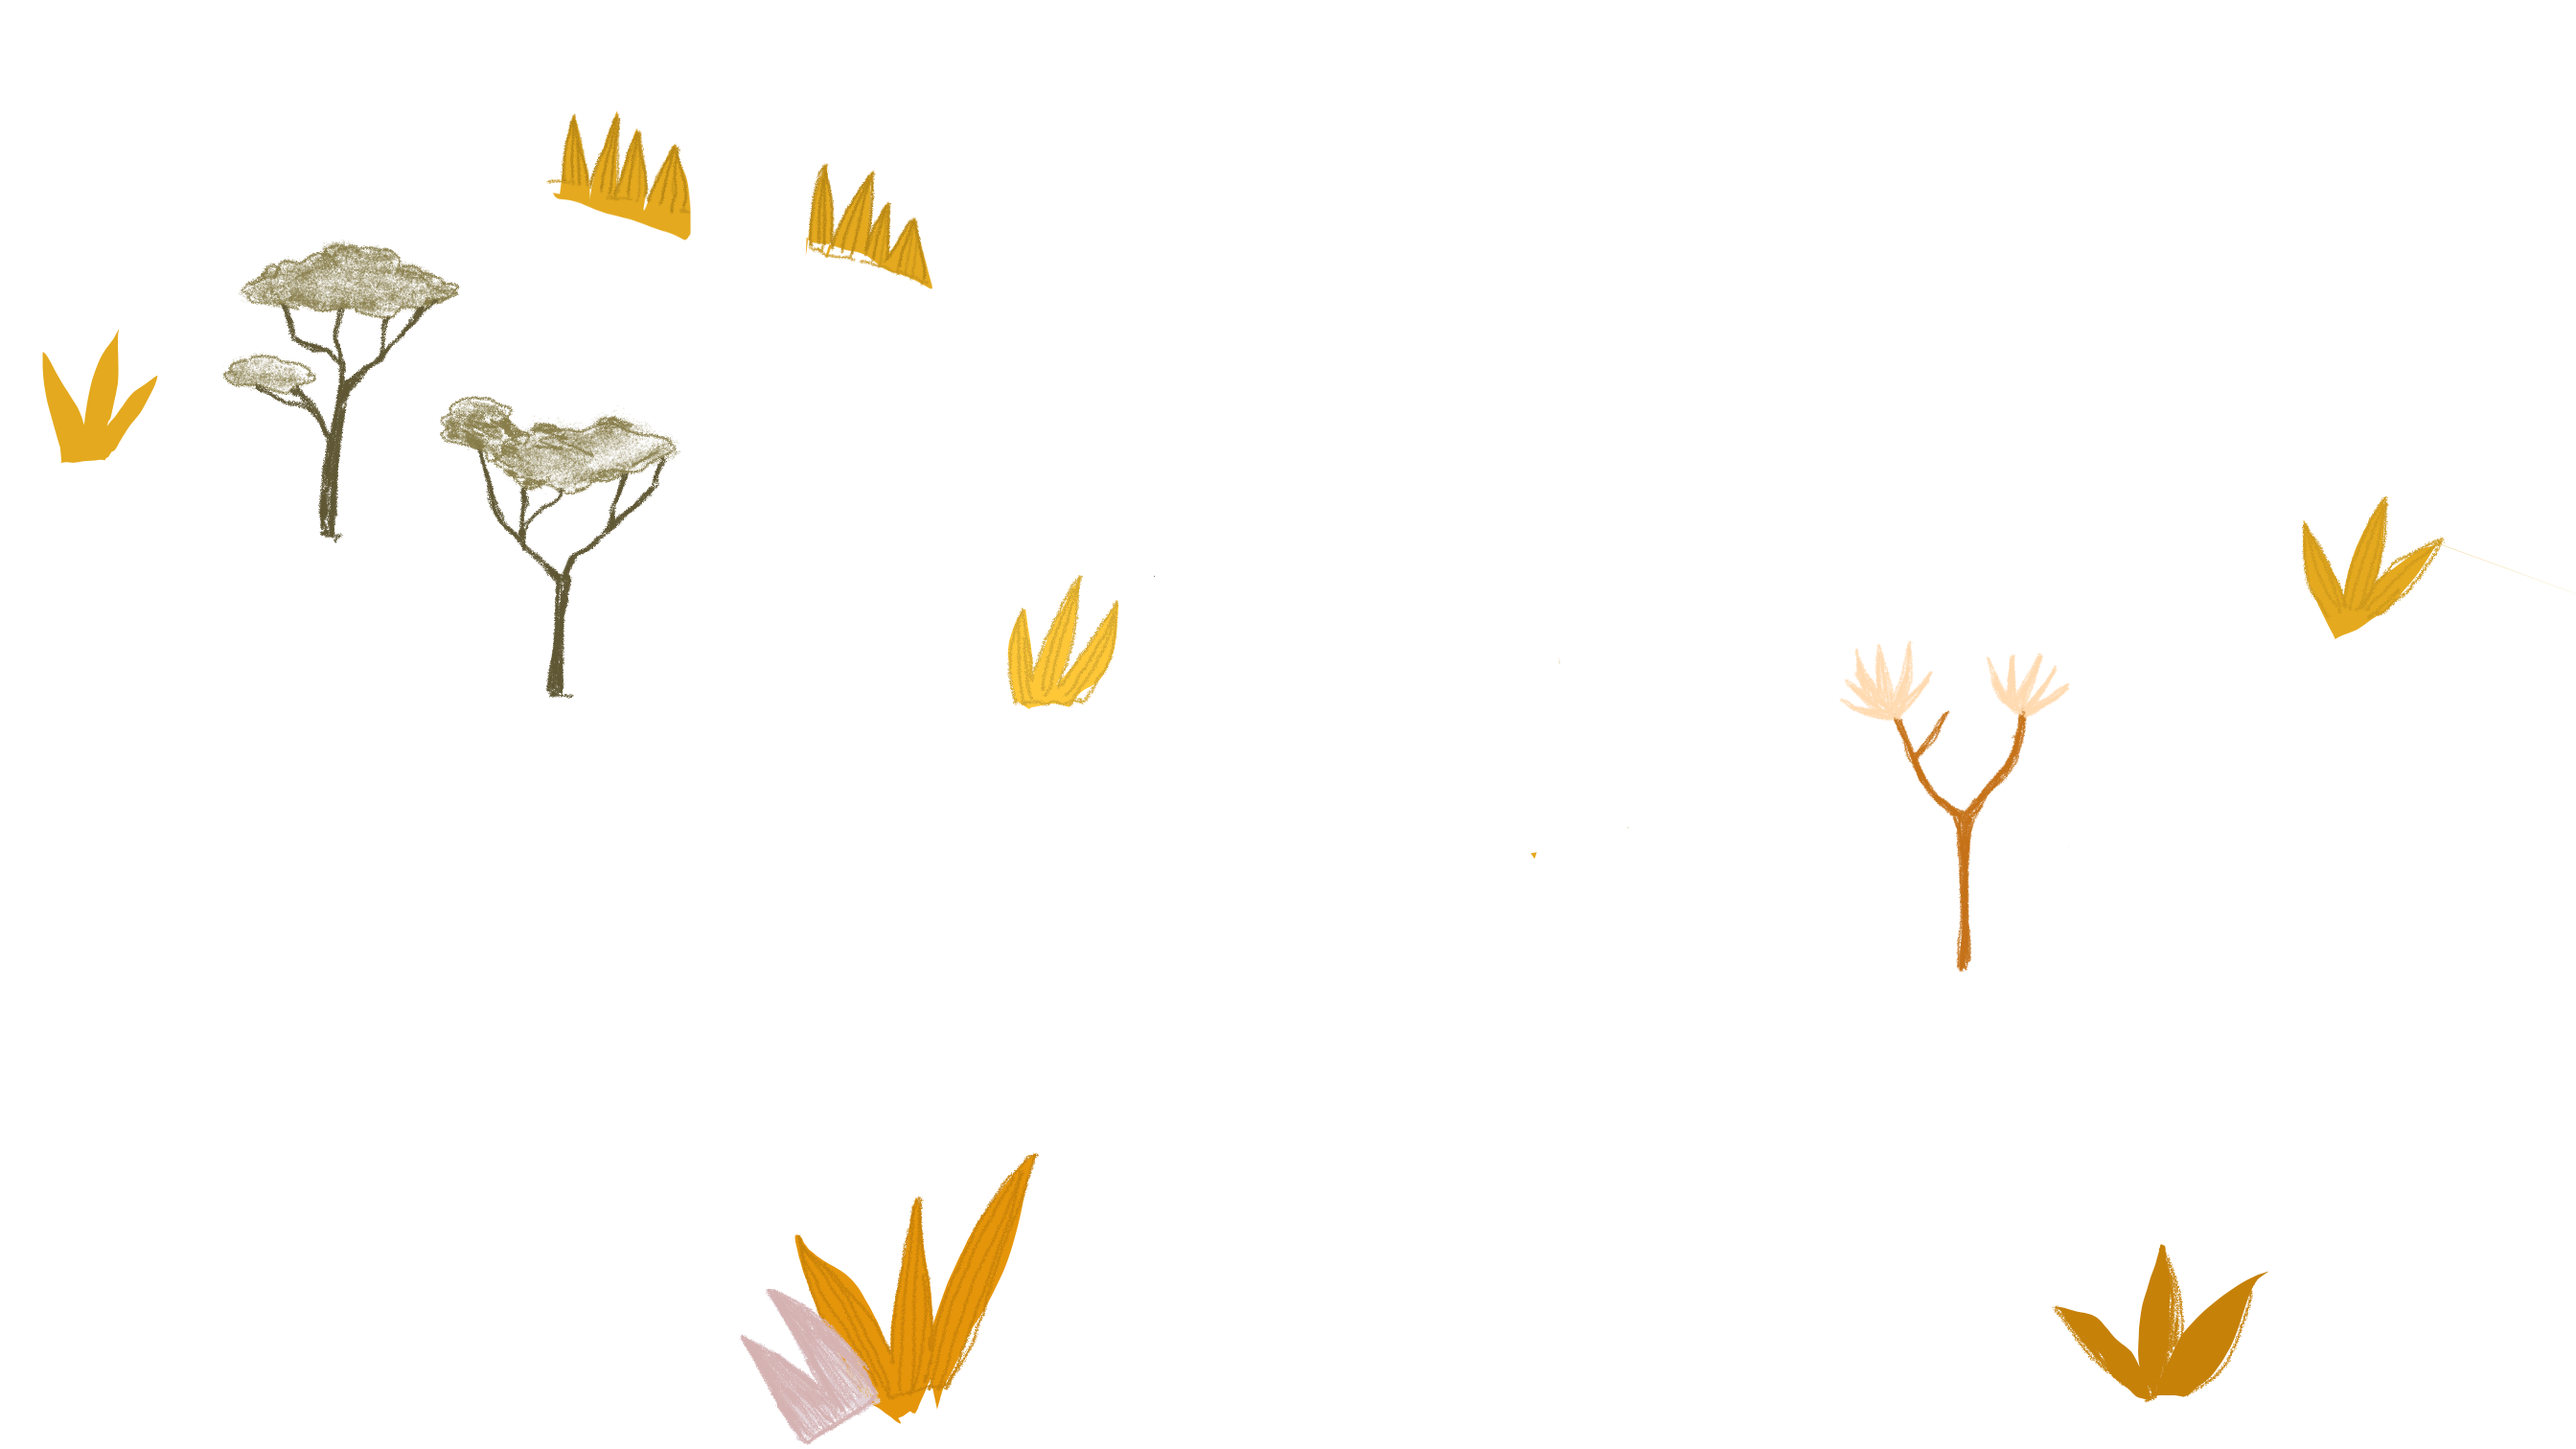
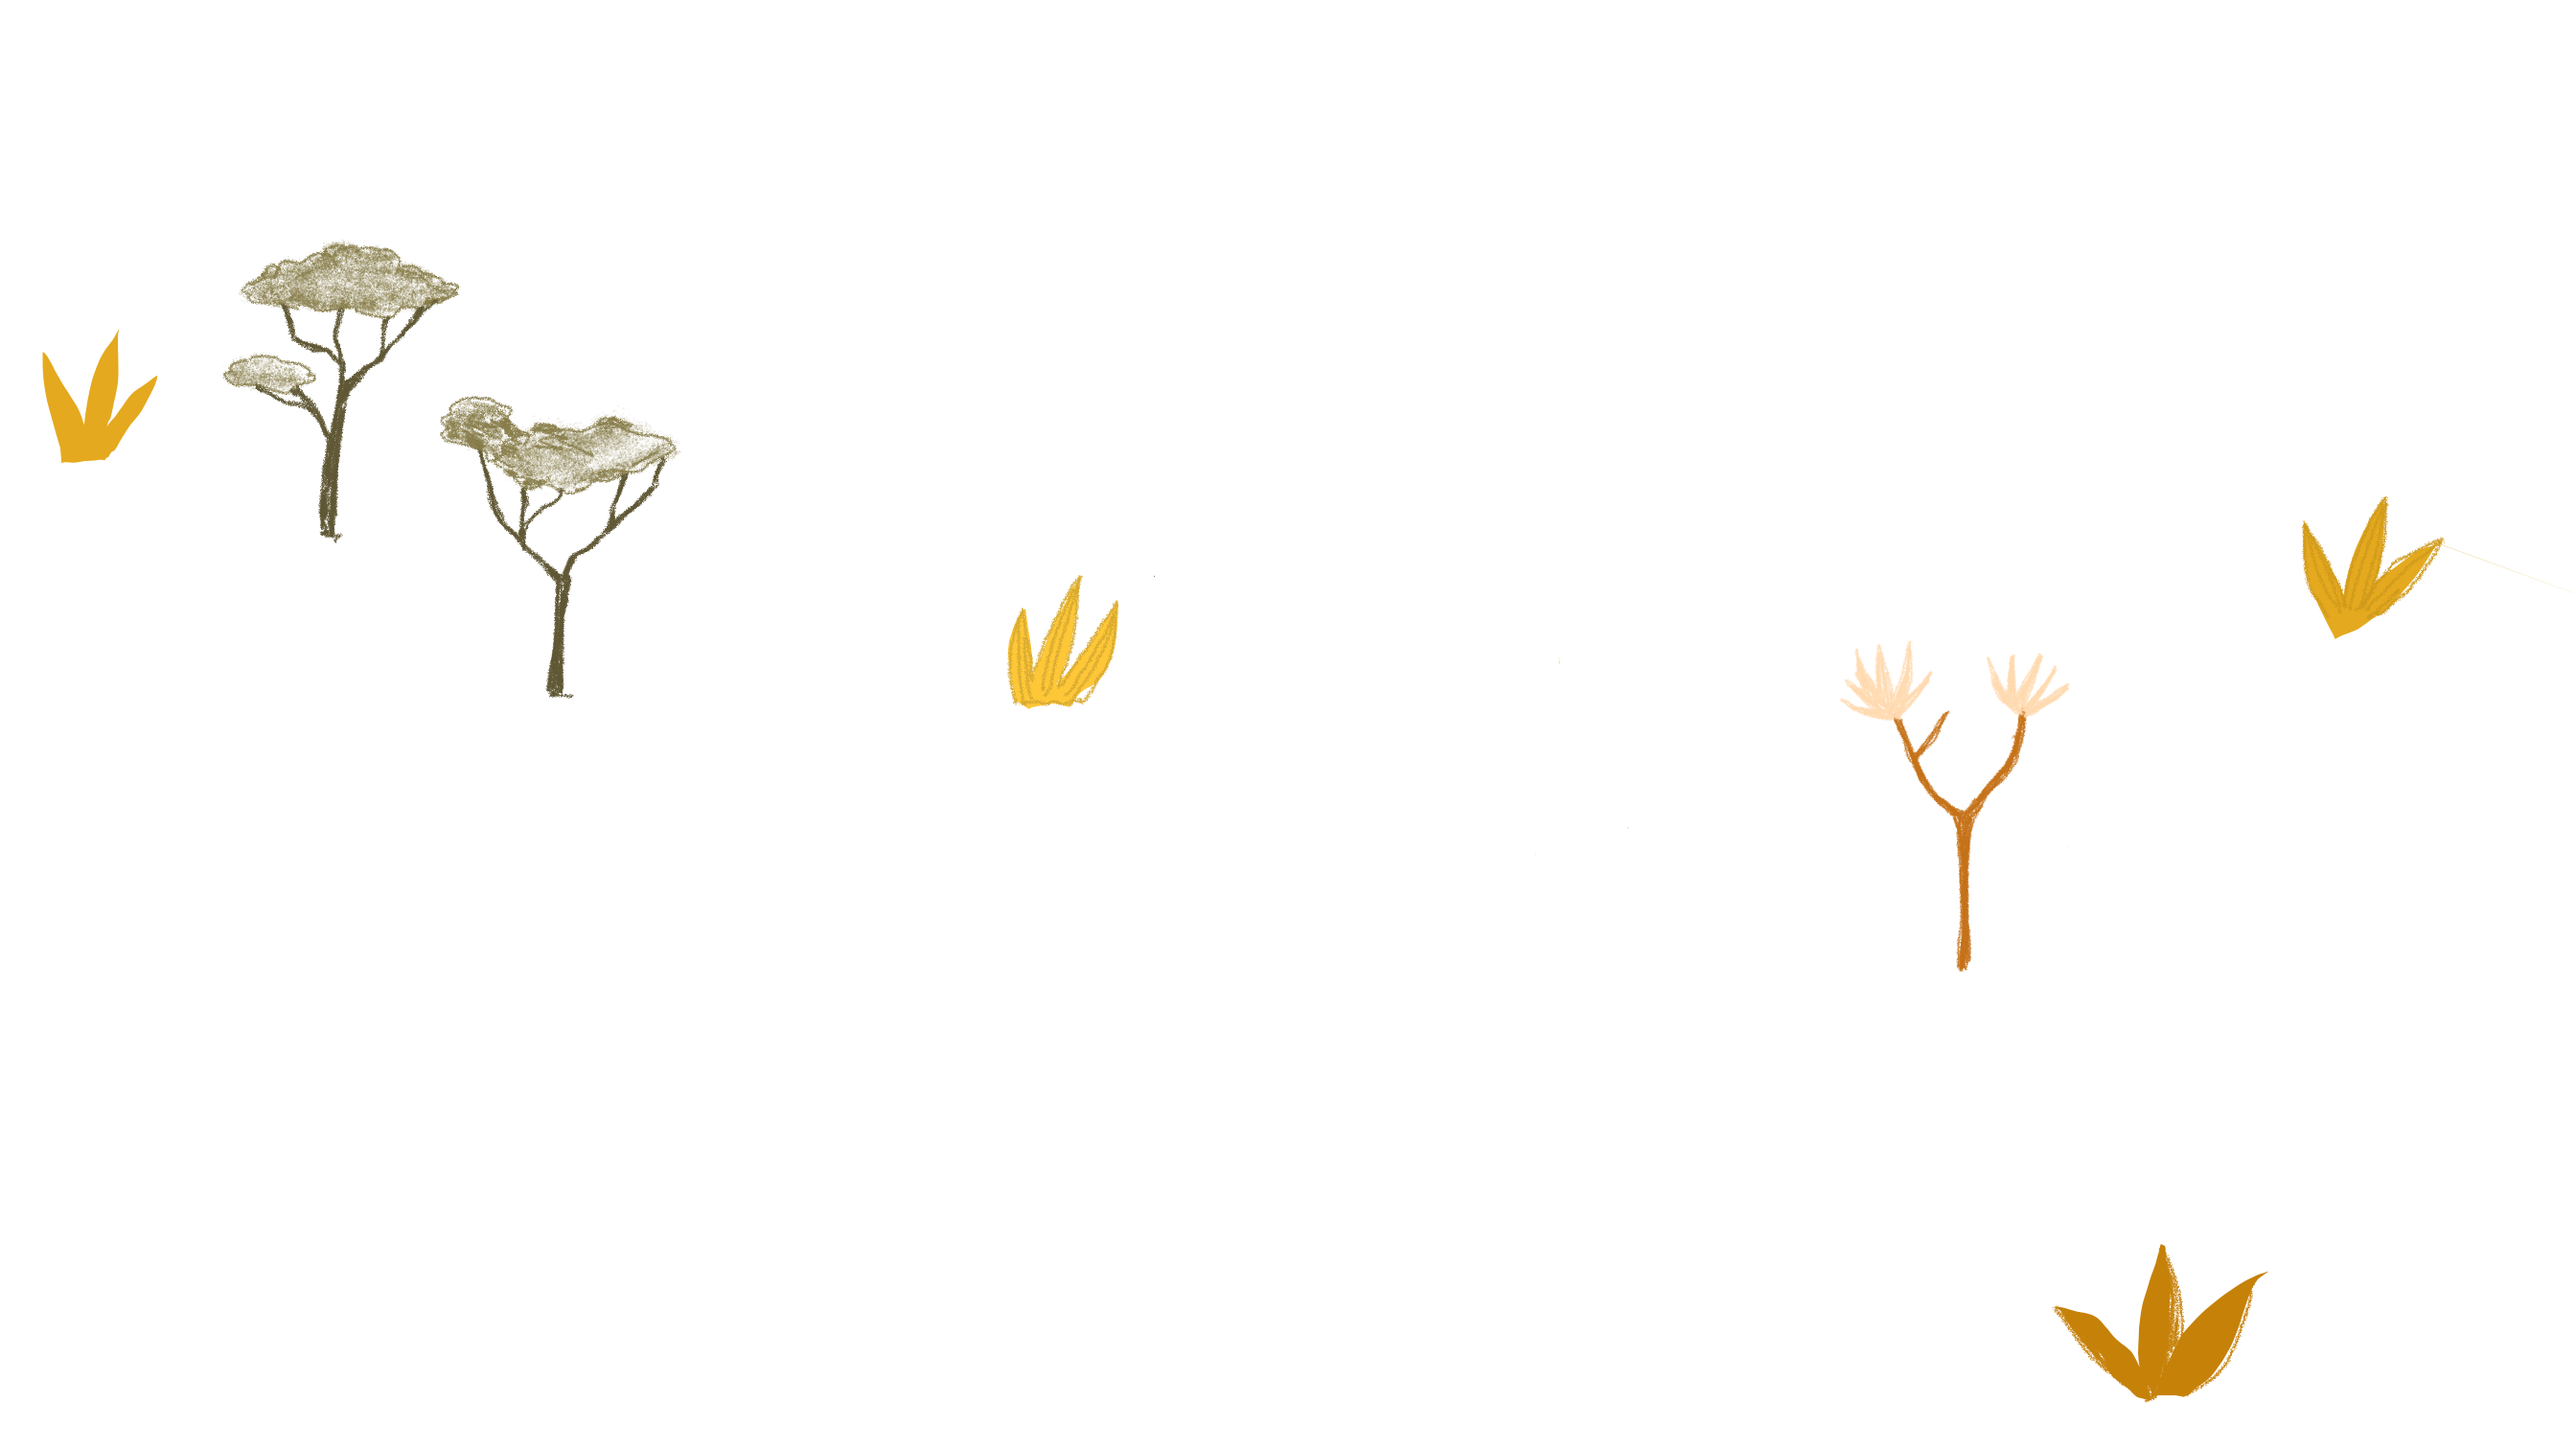
Add new trees and alter image layer

Changed region(s): [[0.2812, 0.8082, 0.4062, 0.9947], [0.2188, 0.0622, 0.2812, 0.1865], [0.3125, 0.1243, 0.375, 0.2176]]

diff --git a/src/game/events/tutorial/index.js b/src/game/events/tutorial/index.js
@@ -70,7 +70,7 @@ export default {
         // Bush compound
         // this.bushCompound02 = scene.physics.add.sprite(631, 225, 'bush_compound_02').setDepth(105);
         scene.physics.add.sprite(1560, 110, 'bush_compound_01').setDepth(1);
-        this.bushCompound04 = scene.physics.add.sprite(1350, 905, 'bush_compound_04').setDepth(105);
+        this.bushCompound04 = scene.physics.add.sprite(1350, 905, 'bush_compound_04')
 
         // 根據主角在線段的左側或右側，設定與bush compound圖層
 
@@ -255,6 +255,9 @@ export default {
             repeat: -1
         })
 
+        // 第一條折線、第二條折線：yellow bushes at initial point
+        this.yellowBushes = scene.add.sprite(770, 214, 'yellow_bushes').setDepth(20);
+
         // Bushes
         const hardBushPositions = [    
         // one side of footpath
@@ -307,7 +310,7 @@ export default {
         {x: 2500, y: 160, scale: 0.8},
         {x: 2510, y: 250, scale: 0.8},
         // 右側道路的間隔bush
-        {x: 1466, y: 1034, scale: 0.8}
+        {x: 1466, y: 1034, scale: 0.8},
 
 
         ];  
@@ -322,17 +325,14 @@ export default {
         });
         scene.physics.add.collider(this.playerSprite, this.hardBushes);
 
-        
+
 
         // Soft bush
         const softBushPositions = [
             {x:1849, y: 334},
             { x: 1786, y: 270 },
             { x: 2327, y: 525 },
-            { x: 2241, y: 521 },
-            { x: 2160, y: 325 },
             { x: 2248, y: 327 },
-            { x: 2161, y: 244 },
             { x: 2061, y: 271 },
             { x: 1892, y: 400 }
         ];

diff --git a/src/game/scenes/Overworld.js b/src/game/scenes/Overworld.js
@@ -66,13 +66,16 @@ export class Overworld extends Scene
 
         // 拼接四張樹木
         // 左上
-        this.add.image(0, 0, 'trees_01').setOrigin(0,0).setDepth(2);
+        this.add.image(0, 0, 'trees_01').setOrigin(0,0).setDepth(110).setScale(0.9);
         // 左下
-        this.add.image(0, worldHeight - 50, 'trees_02').setOrigin(0, 1).setDepth(2);
+        this.add.image(0, worldHeight - 50, 'trees_02').setOrigin(0, 1).setDepth(2).setScale(0.9);
         // 右上
-        this.add.image(worldWidth, -50, 'trees_03').setOrigin(1, 0).setDepth(2);
+        this.add.image(worldWidth, - 50, 'trees_03').setOrigin(1, 0).setDepth(2).setScale(0.9);
         // 右下
-        this.add.image(worldWidth, worldHeight-50, 'trees_04').setOrigin(1, 1).setDepth(2);
+        this.add.image(worldWidth, worldHeight- 50, 'trees_04').setOrigin(1, 1).setDepth(2).setScale(0.9);
+
+        // 獨立的樹
+        this.add.image(3810, 1350, 'tree').setDepth(20);
 
         // 動態設定物理世界邊界 (Physics Bounds) 
         this.physics.world.setBounds(0, 0, worldWidth, worldHeight);
